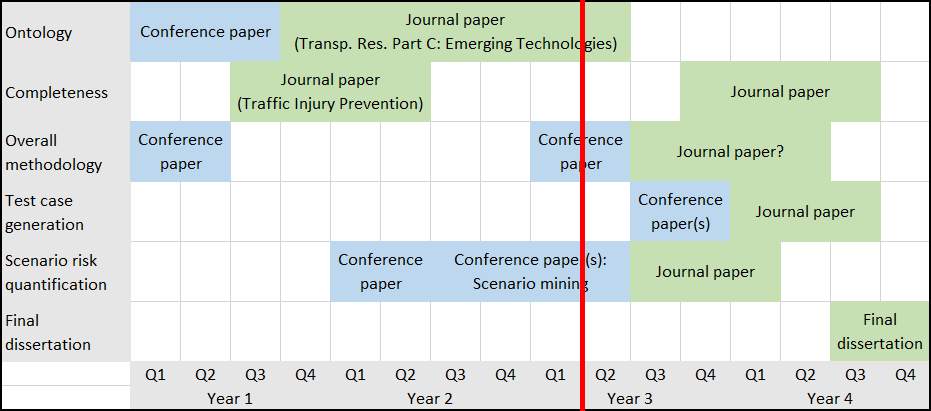
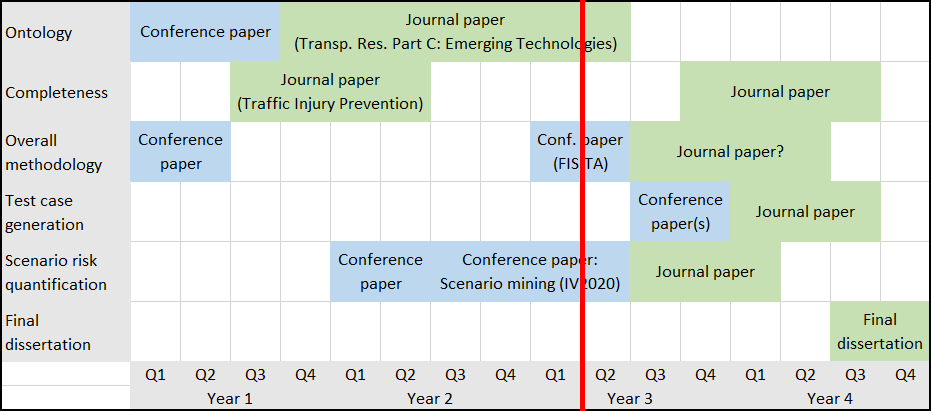
Few changes.

Changed region(s): [[0.4672, 0.6131, 0.6853, 0.7299], [0.5607, 0.3212, 0.6853, 0.3504], [0.5918, 0.3796, 0.6541, 0.438]]

diff --git a/progress_reports/report26/progress_report_26.tex b/progress_reports/report26/progress_report_26.tex
@@ -78,14 +78,14 @@ bookmarksnumbered=true]{hyperref}   %% IEEEtran: set bookmarks=false)
 
 \begin{itemize}
 	\item I received feedback from Bart on the conference paper ``real-world scenario mining for the assessment of automated vehicles.''
-	\item We discussed the possibility of a journal paper describing the overall methodology. Bart suggested that it would be a good opportunity to integrate all work. I discussed with Olaf if it would be possible to get a project at TNO to work on this. At TNO, we hope to have soon the availability to conduct tests with three Renault ``carlabs''. Furthermore, TNO developed few automated driving functions (among which emerging steering assist) for Renault. Therefore, Olaf an I concluded that we might want to investigate whether we can do a project with Renault in which we assess a specific automated driving function (e.g., emerging steering assist).
+	\item We discussed the possibility of a journal paper describing the overall methodology. Bart suggested that it would be a good opportunity to integrate all work done as part of my PhD. I discussed with Olaf if it would be possible to get a project at TNO to work on this. TNO developed few automated driving functions (among which emerging steering assist) for European car manufactures. Therefore, Olaf an I concluded that we might want to investigate whether we can do a project with such a car manufacture in which we assess a specific automated driving function (e.g., emerging steering assist).
 \end{itemize}
 
 \section{Summary of work}
 
 \begin{itemize}
 	\item There is no news on the ontology paper, submitted to Transportation Research Part C: Emerging Technologies. I expect a decision soon, because the status is ``Ready for Decision'' for four weeks.
-	\item I continued the work on the conference paper ``real-world scenario mining for the assessment of automated vehicles.'' The latest version is attached to this report. Changes are in blue font. The deadline for the conference (Intelligent Vehicle Symposium) is February 1. Although they say that ``no extension will be granted'', I expect that the deadline will be postponed by at least two weeks.
+	\item I continued the work on the conference paper ``real-world scenario mining for the assessment of automated vehicles.'' The latest version is attached to this report. Changes are in blue font. The deadline for the conference (Intelligent Vehicle Symposium) is February 1.
 \end{itemize}
 
 \section{Future plans}
@@ -102,6 +102,12 @@ In \cref{fig:planning}, the updated planning is shown. There are a few changes c
 	\caption{Proposed planning at the time of this report. The red line indicated the time when writing this report.}
 	\label{fig:planning}
 \end{figure}
+
+On the short term, I plan to work on the following:
+\begin{itemize}
+	\item Finish the conference paper on the scenario mining for the Intelligent Vehicle Symposium.
+	\item Check internally at TNO the possibility for a project with a car manufacture to apply the work of my PhD to assess an automated driving function.
+\end{itemize}
 
 \section{Questions}
 
